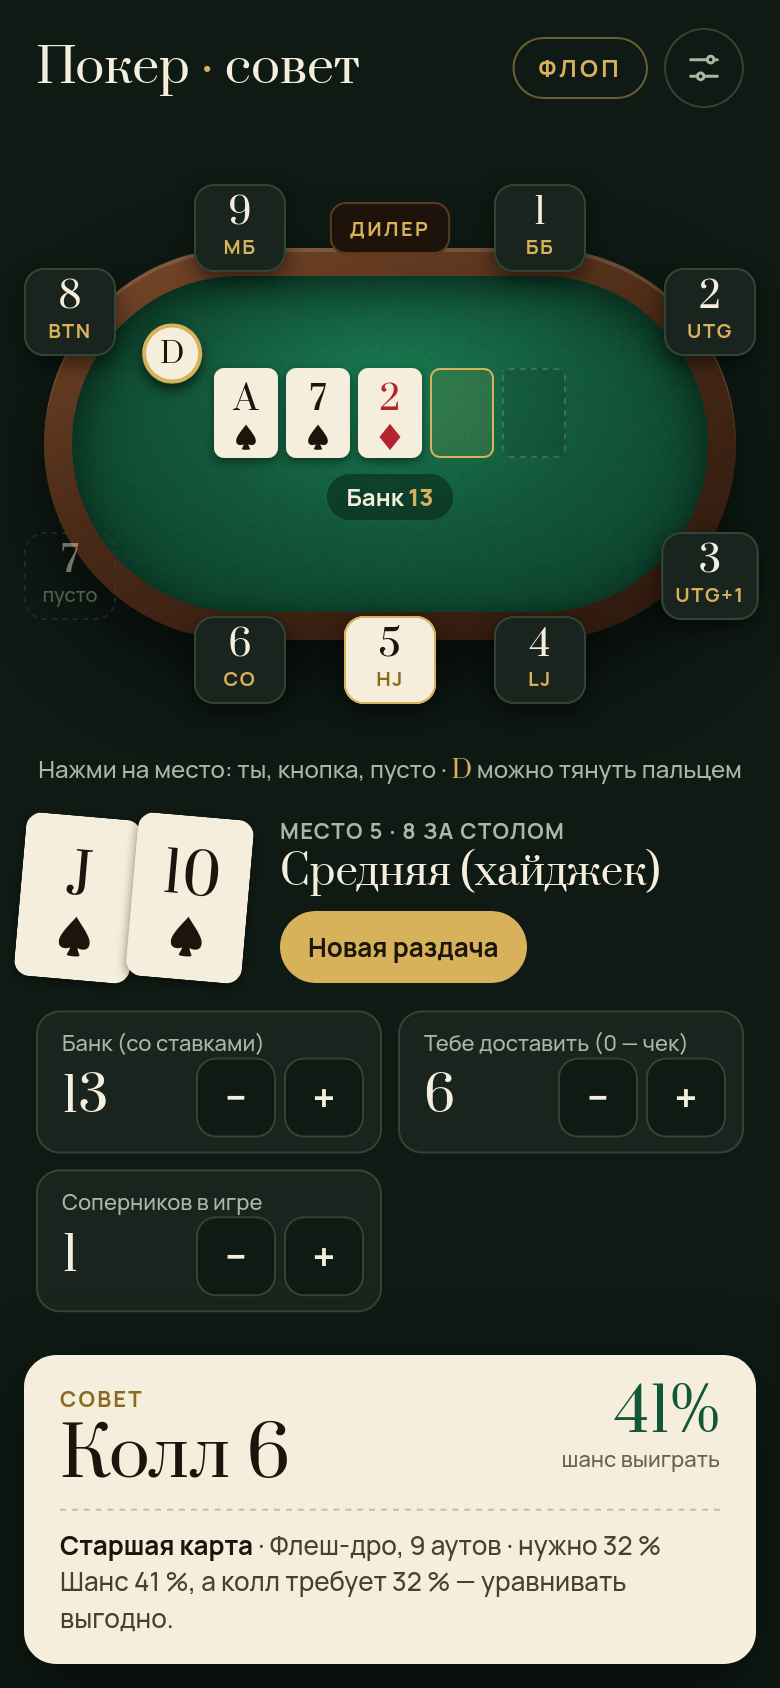
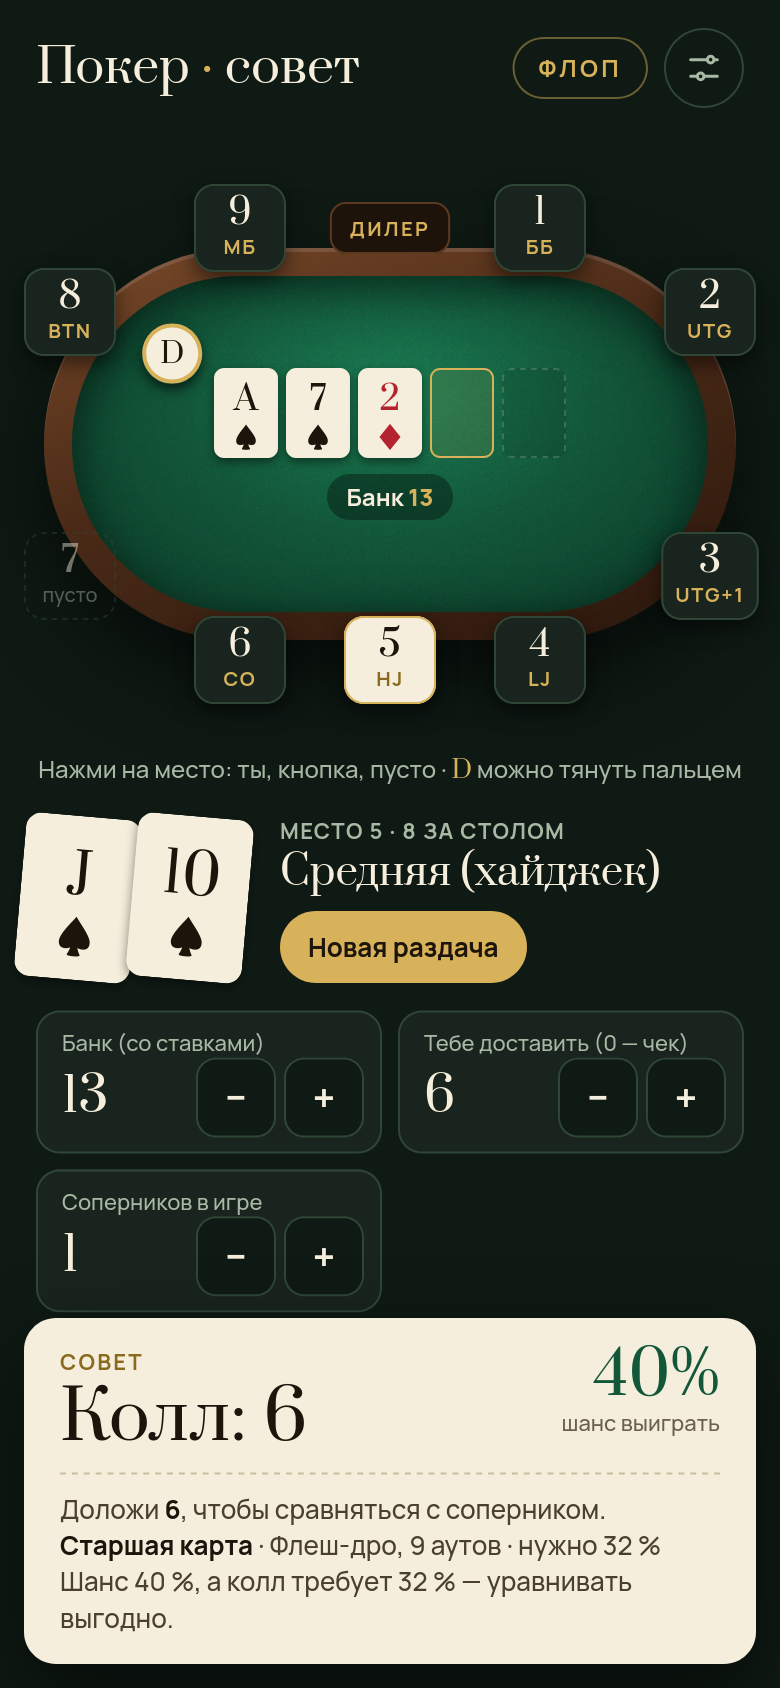
Совет говорит суммами: сколько поставить всего и сколько доложить

Changed region(s): [[0.0308, 0.7701, 0.9846, 0.955]]

diff --git a/app.js b/app.js
@@ -322,14 +322,42 @@ function renderTicket() {
       const draws = advice.draws.names.length ? ` · ${advice.draws.names.join(', ')}, ${advice.draws.outs} аутов` : '';
       lines = [`<b>${advice.handName}</b>${draws}${need}`, advice.reason];
     }
+    const { title, chips } = howMuch(advice, count === 0, heroPos);
+    if (chips) lines.unshift(chips);
     ticket.classList.remove('busy');
     ticket.innerHTML = `
       <div class="top-row">
-        <div class="act ${advice.action === 'fold' ? 'fold' : ''}"><small>Совет</small>${advice.text.replace(/(\d)\.(\d)/, '$1,$2')}</div>
+        <div class="act ${advice.action === 'fold' ? 'fold' : ''}"><small>Совет</small>${title}</div>
         <div class="gauge"><b>${Math.round(equity * 100)}%</b><span>шанс выиграть</span></div>
       </div>
       <hr>${lines.map((l) => `<div class="line">${l}</div>`).join('')}`;
   }, 30);
+}
+
+// Сколько фишек класть — простыми словами, без «рейз до».
+function howMuch(advice, preflop, heroPos) {
+  const amount = advice.amount;
+  // Префлоп блайнды уже лежат на столе — их не докладывают второй раз.
+  const posted = preflop ? (heroPos.key === 'BB' ? state.bb : heroPos.key === 'SB' ? state.bb / 2 : 0) : 0;
+  const bbs = (n) => `${fmt(n / state.bb)} ББ`;
+  const blind = posted ? ` Блайнд ${fmt(posted)} уже на столе — доложи <b>${fmt(amount - posted)}</b>.` : '';
+  switch (advice.action) {
+    case 'raise': {
+      const theirs = preflop ? (state.preflop === 'none' ? 0 : state.preflop === 'limp' ? state.bb : state.raiseTo) : state.toCall;
+      const more = theirs ? `: у соперника ${fmt(theirs)}, у тебя на ${fmt(amount - theirs)} больше` : '';
+      return { title: `Рейз: ${fmt(amount)}`,
+        chips: `Твоя ставка всего — <b>${fmt(amount)}</b>${preflop ? ` (${bbs(amount)})` : ''}${more}.${blind}` };
+    }
+    case 'bet':
+      return { title: `Ставка: ${fmt(amount)}`, chips: `Поставь <b>${fmt(amount)}</b>.` };
+    case 'call': {
+      const add = amount - posted;
+      return { title: `Колл: ${fmt(add)}`,
+        chips: `Доложи <b>${fmt(add)}</b>, чтобы сравняться с соперником.${posted ? ` (Блайнд ${fmt(posted)} уже на столе.)` : ''}` };
+    }
+    default:
+      return { title: advice.text, chips: '' };
+  }
 }
 
 // ---------- Твоя рука ----------
@@ -354,8 +382,8 @@ $('new-hand').onclick = () => {
 $('settings-btn').onclick = () => {
   openSheet(`
     <h2>Блайнды<button data-act="close">Готово</button></h2>
-    <div class="steppers">${stepper('bb', 'Большой блайнд (в фишках)', 1, 1)}</div>
-    <p class="note">Все суммы (рейзы, банк, ставки) — в тех же фишках. Малый блайнд — половина большого.</p>`);
+    <div class="steppers">${stepper('bb', 'Большой блайнд', 1, 1)}</div>
+    <p class="note">Суммы — в деньгах стола (евро, рубли — как у вас), не в штуках фишек. Например, игра 1/2: малый блайнд 1, большой 2. Рейзы, банк и ставки вводи в тех же деньгах.</p>`);
   sheet.querySelector('[data-act="close"]').onclick = closeSheet;
   for (const b of sheet.querySelectorAll('button[data-step]')) b.onclick = () => {
     state.bb = Math.max(1, state.bb + Number(b.dataset.step));

diff --git a/src/preflop.js b/src/preflop.js
@@ -41,7 +41,7 @@ const chips = (amount) => Math.round(amount * 10) / 10;
  * action — что было до тебя: 'none' (все сбросили или ты первый), 'limp',
  *   'raise' (одно повышение), '3bet' (повышение на повышение);
  * limpers — сколько игроков уравняли блайнд; raiseTo — до скольки повысили;
- * bigBlind — размер большого блайнда (все суммы в тех же фишках).
+ * bigBlind — размер большого блайнда (все суммы в тех же деньгах).
  * Возвращает { action, amount, text, reason, hand }.
  */
 export function preflopAdvice({ hero, position, action = 'none', limpers = 0, raiseTo = 0, bigBlind = 1 }) {
